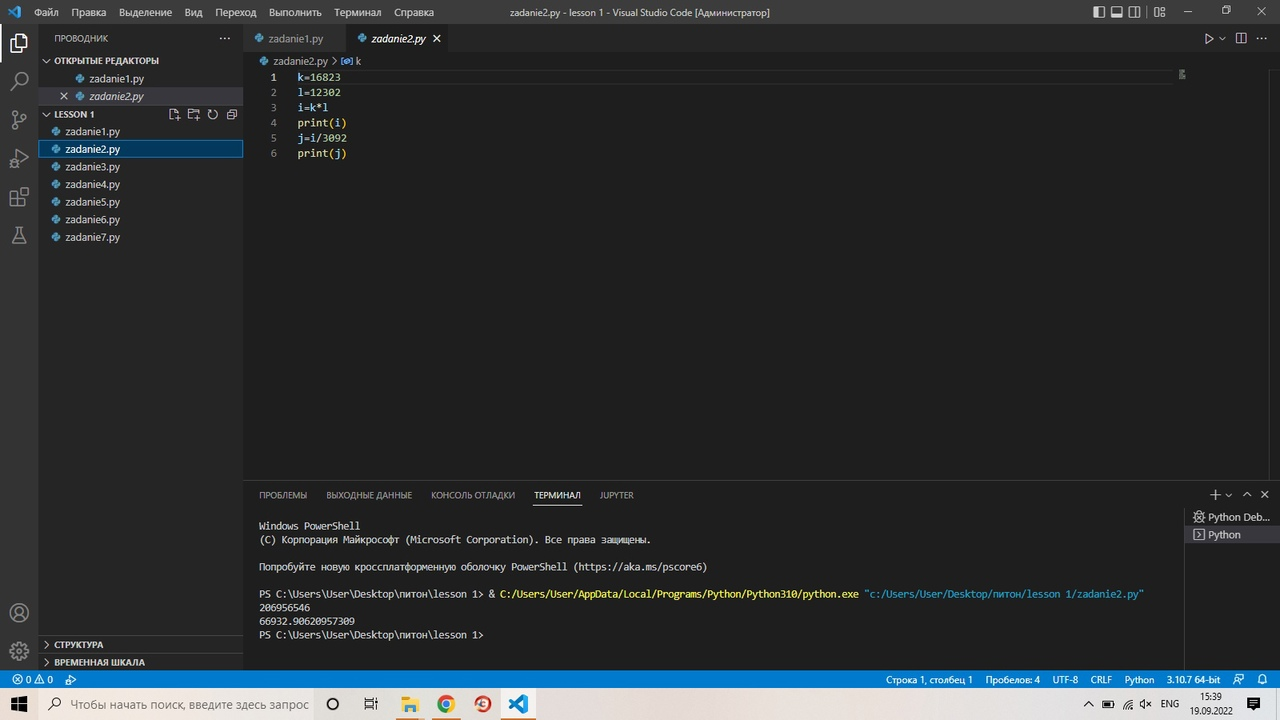
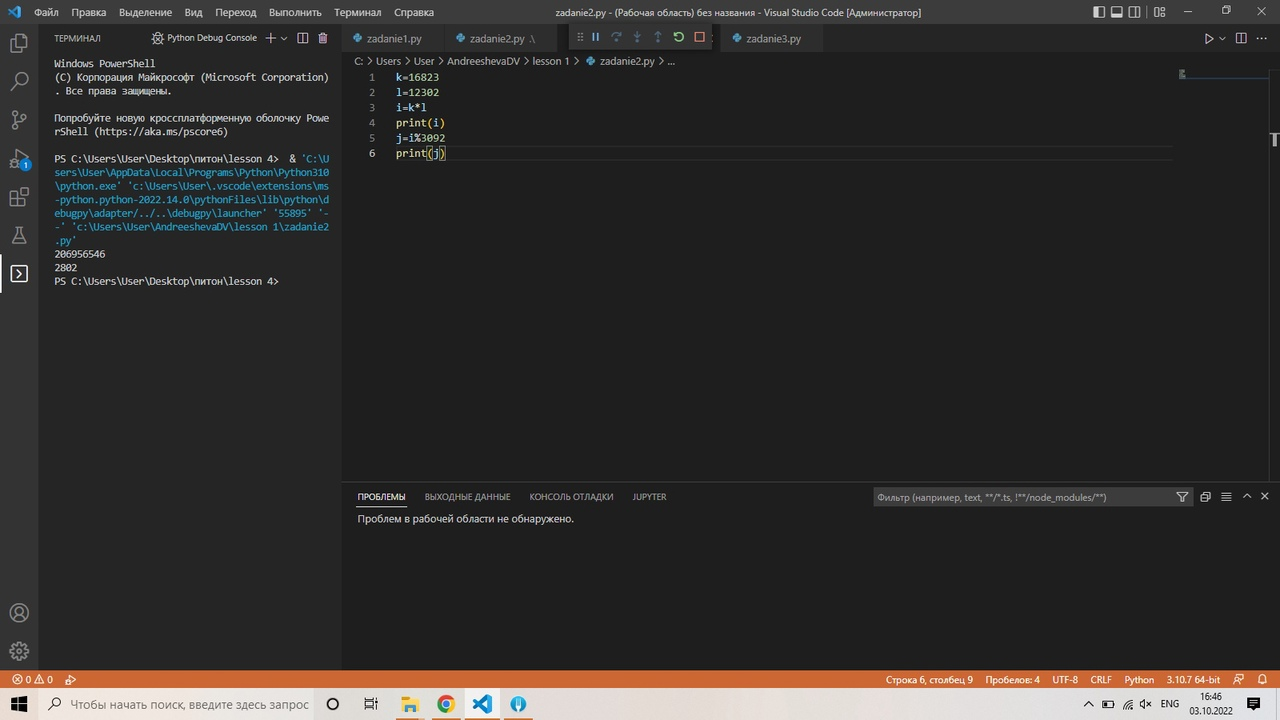
fix issues

diff --git a/lesson 1/zadanie3.py b/lesson 1/zadanie3.py
@@ -1,14 +1,18 @@
 age = int(input('Введите ваш возраст'))
-first_name = input('Введите ваше имя')
-if age > 16:
-    print  ('Поздраавляем вы поступили в ВГУИТ')
-else:
-    print ('Сначала нужно окончить школу!')
-    b = 16 - age
-    print ('Поступайте через', b)
+
+
 if  0<age<75:
     print('Возраст верный!')
+    if age > 16 :
+        print  ('Поздраавляем вы поступили в ВГУИТ')
+        first_name = input('Введите ваше имя: ')
+        if first_name == "Иван":
+            print ('Вы Иван!')
+        else:
+             print ('Ваше имя не Иван') 
+    else:
+        print ('Сначала нужно окончить школу!')
+        b = 16 - age
+        print ('Поступайте через', b)
 else: 
     print('Недопустимый возраст!')
-if first_name == "Иван":
-    print ('Вы Иван!')

diff --git a/lesson 1/zadanie2.py b/lesson 1/zadanie2.py
@@ -2,5 +2,5 @@ k=16823
 l=12302
 i=k*l
 print(i)
-j=i/3092
+j=i%3092
 print(j)
